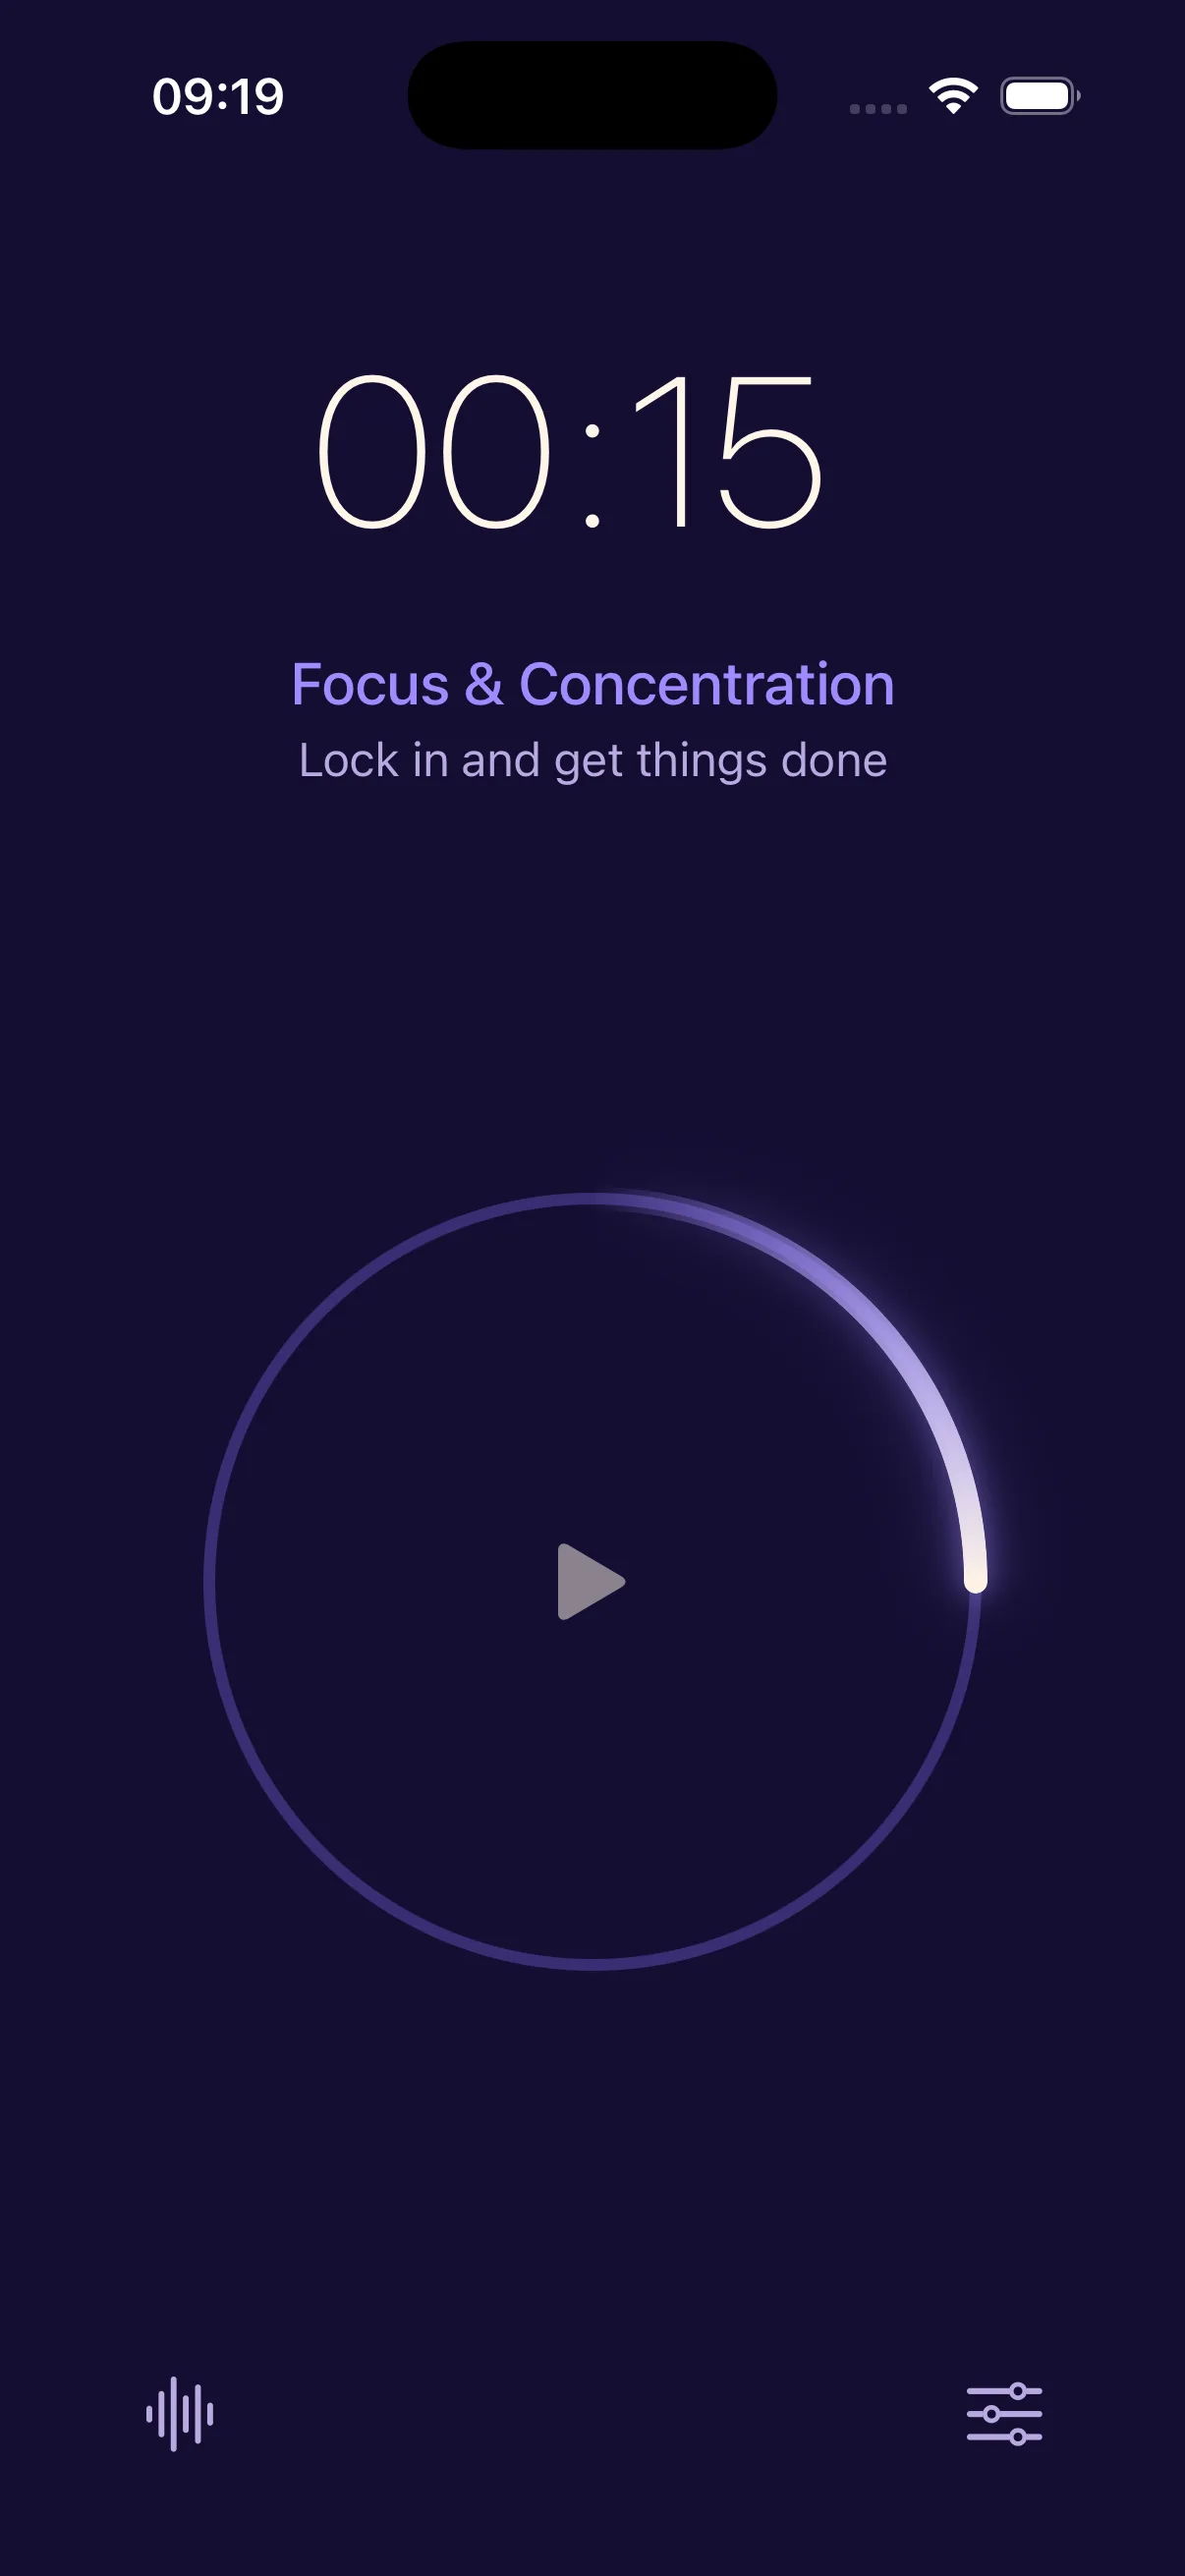
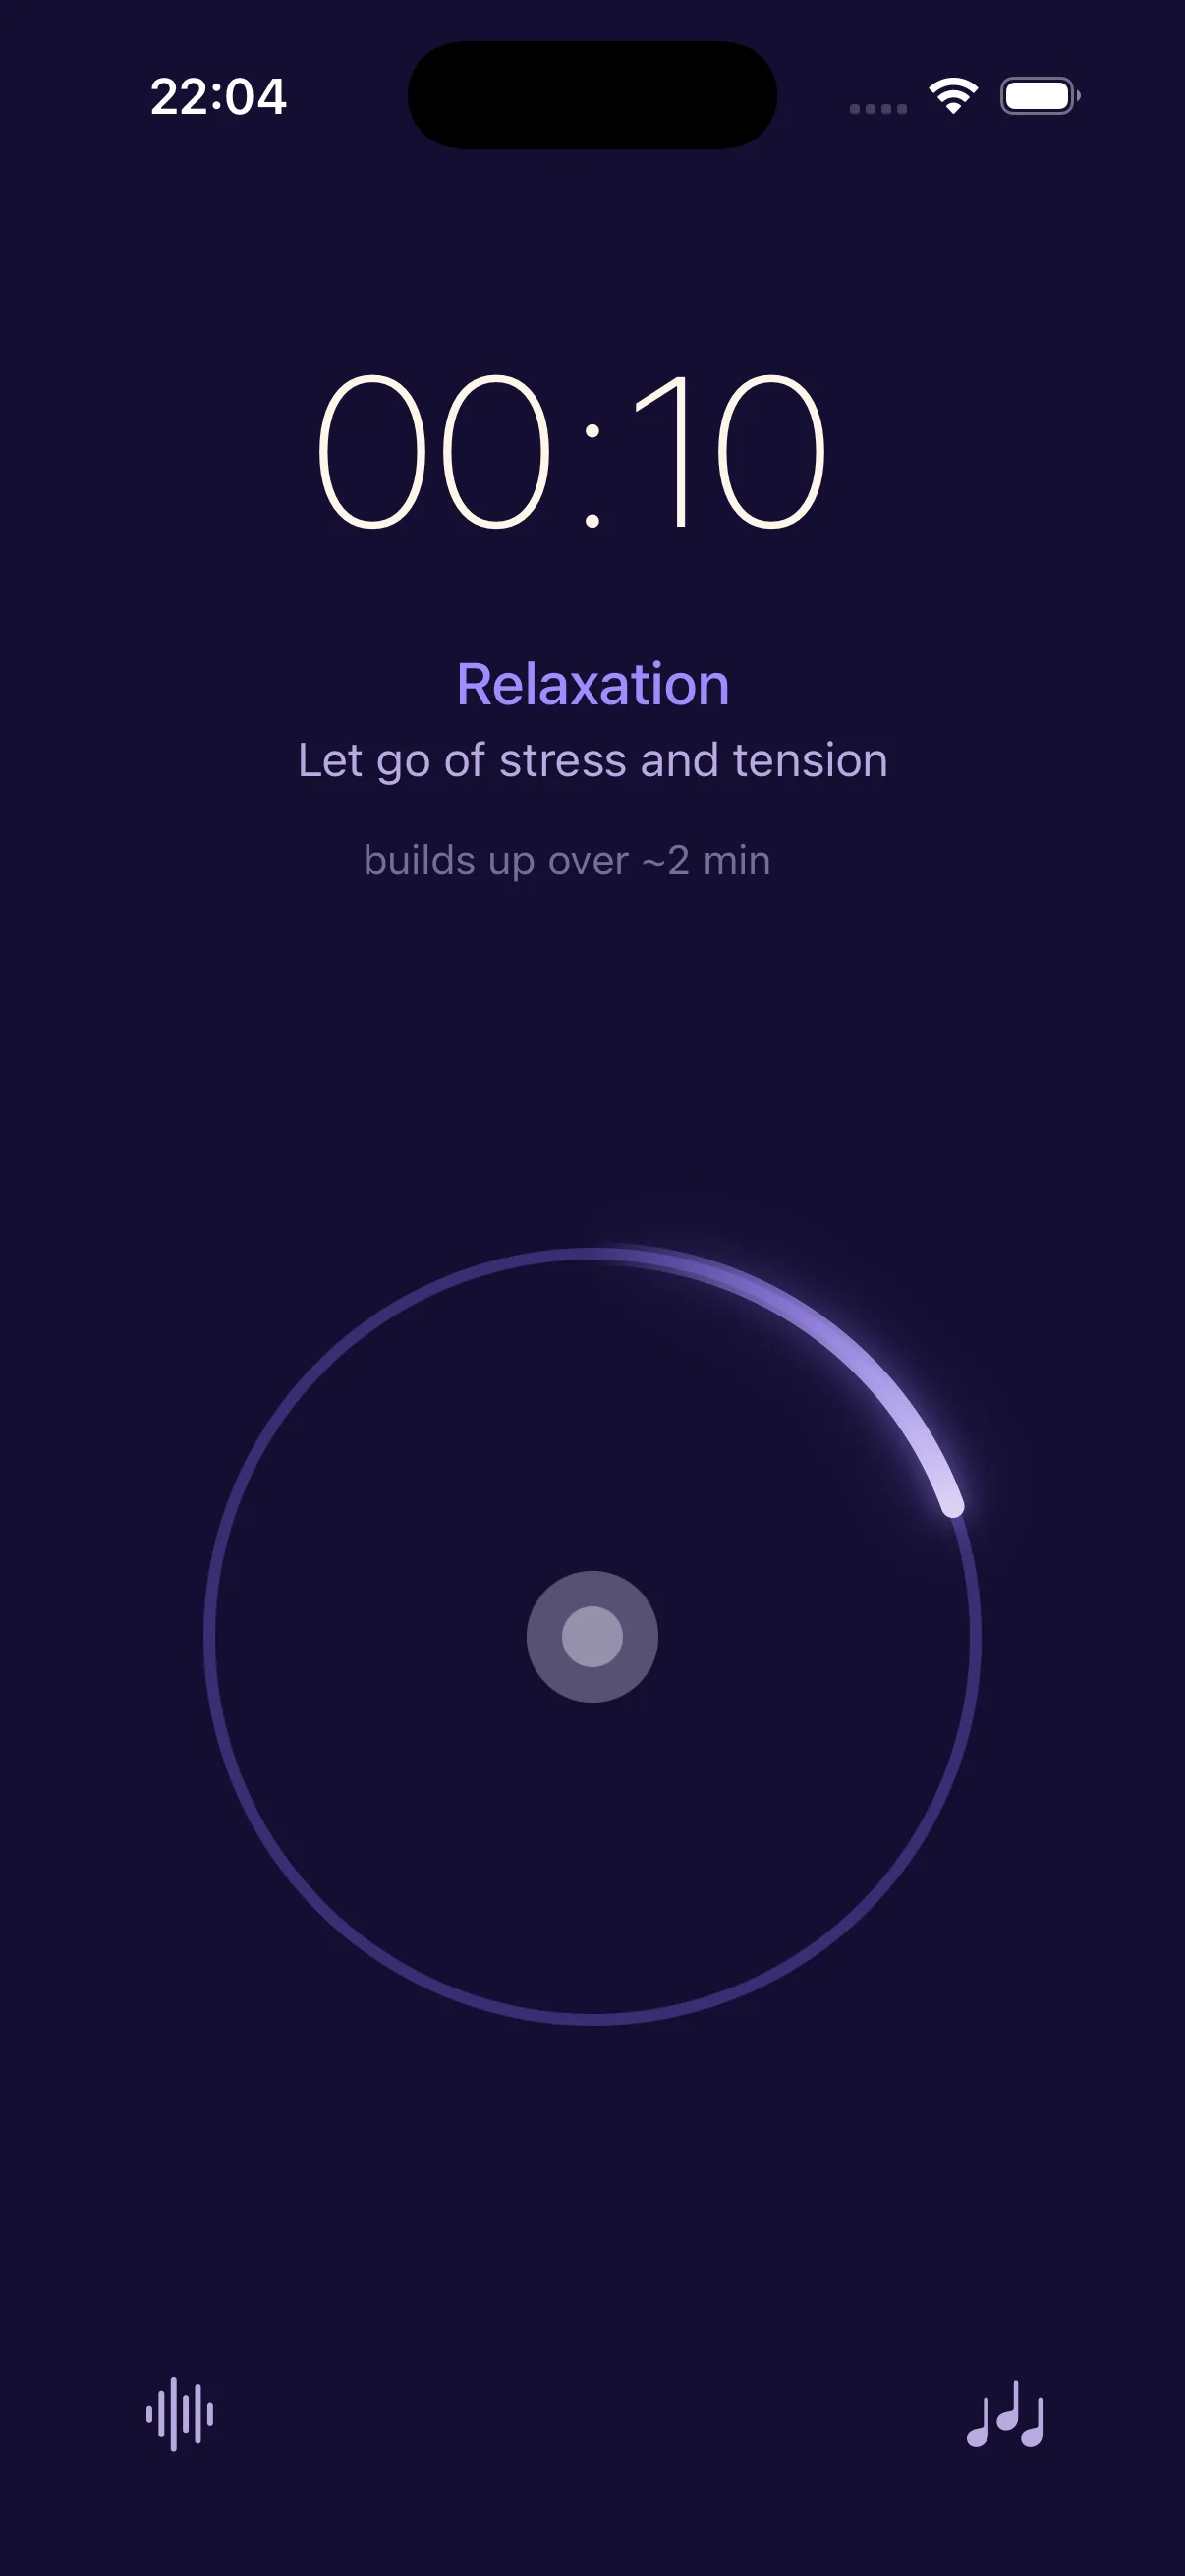
publish

diff --git a/credits/index.html b/credits/index.html
@@ -610,14 +610,14 @@
         <h1 class="font-display text-5xl font-extralight leading-[1.05] text-cream sm:text-[3.25rem]">The sound library.</h1>
 
         <div class="prose mt-7 max-w-2xl text-[17px] leading-relaxed text-muted">
-            <p>Humm's soundscapes are built from 380 recordings, sourced from <a href="https://freesound.org" class="text-violet-soft transition hover:text-violet-bright">Freesound.org</a> under Creative Commons licenses and cleared for a paid app. The 208 released under CC0 are public domain and need no credit. The 172 that carry a simple attribution requirement are credited below, each per its license.</p>
+            <p>Humm's soundscapes are built from 348 recordings, sourced from <a href="https://freesound.org" class="text-violet-soft transition hover:text-violet-bright">Freesound.org</a> under Creative Commons licenses and cleared for a paid app. The 193 released under CC0 are public domain and need no credit. The 155 that carry a simple attribution requirement are credited below, each per its license.</p>
         </div>
 
         
         <section class="mt-12">
             <div class="faq group border-y border-white/8">
                 <button type="button" aria-expanded="false" aria-controls="attributions-panel" class="flex w-full cursor-pointer items-center justify-between gap-4 py-6 text-left">
-                    <span class="flex items-baseline gap-3 font-display text-2xl font-extralight text-cream">Attributions <span class="text-base text-muted/70">172</span></span>
+                    <span class="flex items-baseline gap-3 font-display text-2xl font-extralight text-cream">Attributions <span class="text-base text-muted/70">155</span></span>
                     <span class="shrink-0 text-2xl font-light text-muted transition group-[.is-open]:rotate-45">+</span>
                 </button>
                 <div id="attributions-panel" class="faq-answer">
@@ -630,10 +630,6 @@
                                                             <li class="break-inside-avoid text-sm">
                                     <a href="https://freesound.org/people/Akkaittou/sounds/831757/" target="_blank" rel="noopener noreferrer" class="break-words text-cream/90 transition hover:text-violet-soft">SadAtmosphericGuitarSoundTrack</a>
                                     <span class="block text-xs text-muted">Akkaittou · CC BY 4.0</span>
-                                </li>
-                                                            <li class="break-inside-avoid text-sm">
-                                    <a href="https://freesound.org/people/AlienXXX/sounds/218276/" target="_blank" rel="noopener noreferrer" class="break-words text-cream/90 transition hover:text-violet-soft">underwater ambience.wav</a>
-                                    <span class="block text-xs text-muted">AlienXXX · CC BY 4.0</span>
                                 </li>
                                                             <li class="break-inside-avoid text-sm">
                                     <a href="https://freesound.org/people/Andrewkn/sounds/509740/" target="_blank" rel="noopener noreferrer" class="break-words text-cream/90 transition hover:text-violet-soft">Horizon</a>
@@ -701,10 +697,6 @@
                                 </li>
                                                             <li class="break-inside-avoid text-sm">
                                     <a href="https://freesound.org/people/Clearwavsound/sounds/541036/" target="_blank" rel="noopener noreferrer" class="break-words text-cream/90 transition hover:text-violet-soft">Singing Bowl Hit</a>
-                                    <span class="block text-xs text-muted">Clearwavsound · CC BY 3.0</span>
-                                </li>
-                                                            <li class="break-inside-avoid text-sm">
-                                    <a href="https://freesound.org/people/Clearwavsound/sounds/541032/" target="_blank" rel="noopener noreferrer" class="break-words text-cream/90 transition hover:text-violet-soft">Crystal Glass Clink</a>
                                     <span class="block text-xs text-muted">Clearwavsound · CC BY 3.0</span>
                                 </li>
                                                             <li class="break-inside-avoid text-sm">
@@ -784,10 +776,6 @@
                                     <span class="block text-xs text-muted">ethang · CC BY 4.0</span>
                                 </li>
                                                             <li class="break-inside-avoid text-sm">
-                                    <a href="https://freesound.org/people/Filmscore/sounds/516051/" target="_blank" rel="noopener noreferrer" class="break-words text-cream/90 transition hover:text-violet-soft">Sacred Bell at Byodo-In Temple 1</a>
-                                    <span class="block text-xs text-muted">Filmscore · CC BY 4.0</span>
-                                </li>
-                                                            <li class="break-inside-avoid text-sm">
                                     <a href="https://freesound.org/people/frankum/sounds/426471/" target="_blank" rel="noopener noreferrer" class="break-words text-cream/90 transition hover:text-violet-soft">pad chords 001-loop mode</a>
                                     <span class="block text-xs text-muted">frankum · CC BY 4.0</span>
                                 </li>
@@ -798,10 +786,6 @@
                                                             <li class="break-inside-avoid text-sm">
                                     <a href="https://freesound.org/people/Geoff-Bremner-Audio/sounds/732036/" target="_blank" rel="noopener noreferrer" class="break-words text-cream/90 transition hover:text-violet-soft">Dripping Water in Cave Sewer</a>
                                     <span class="block text-xs text-muted">Geoff-Bremner-Audio · CC BY 4.0</span>
-                                </li>
-                                                            <li class="break-inside-avoid text-sm">
-                                    <a href="https://freesound.org/people/gkillhour/sounds/267337/" target="_blank" rel="noopener noreferrer" class="break-words text-cream/90 transition hover:text-violet-soft">Ding 4.wav</a>
-                                    <span class="block text-xs text-muted">gkillhour · CC BY 4.0</span>
                                 </li>
                                                             <li class="break-inside-avoid text-sm">
                                     <a href="https://freesound.org/people/gkillhour/sounds/267332/" target="_blank" rel="noopener noreferrer" class="break-words text-cream/90 transition hover:text-violet-soft">Ding 1.wav</a>
@@ -844,14 +828,6 @@
                                     <span class="block text-xs text-muted">ispeakwaves · CC BY 4.0</span>
                                 </li>
                                                             <li class="break-inside-avoid text-sm">
-                                    <a href="https://freesound.org/people/Jagadamba/sounds/257198/" target="_blank" rel="noopener noreferrer" class="break-words text-cream/90 transition hover:text-violet-soft">Gong - percussion 03</a>
-                                    <span class="block text-xs text-muted">Jagadamba · CC BY 4.0</span>
-                                </li>
-                                                            <li class="break-inside-avoid text-sm">
-                                    <a href="https://freesound.org/people/jesabat/sounds/119741/" target="_blank" rel="noopener noreferrer" class="break-words text-cream/90 transition hover:text-violet-soft">Steam Hiss.wav</a>
-                                    <span class="block text-xs text-muted">jesabat · CC BY 3.0</span>
-                                </li>
-                                                            <li class="break-inside-avoid text-sm">
                                     <a href="https://freesound.org/people/joedeshon/sounds/78209/" target="_blank" rel="noopener noreferrer" class="break-words text-cream/90 transition hover:text-violet-soft">mark_tree_low_up.wav</a>
                                     <span class="block text-xs text-muted">joedeshon · CC BY 4.0</span>
                                 </li>
@@ -866,10 +842,6 @@
                                                             <li class="break-inside-avoid text-sm">
                                     <a href="https://freesound.org/people/Julian_Eftei/sounds/553366/" target="_blank" rel="noopener noreferrer" class="break-words text-cream/90 transition hover:text-violet-soft">Snake.wav</a>
                                     <span class="block text-xs text-muted">Julian_Eftei · CC BY 4.0</span>
-                                </li>
-                                                            <li class="break-inside-avoid text-sm">
-                                    <a href="https://freesound.org/people/juskiddink/sounds/129219/" target="_blank" rel="noopener noreferrer" class="break-words text-cream/90 transition hover:text-violet-soft">Quartz crystal singing bowl.wav</a>
-                                    <span class="block text-xs text-muted">juskiddink · CC BY 4.0</span>
                                 </li>
                                                             <li class="break-inside-avoid text-sm">
                                     <a href="https://freesound.org/people/juskiddink/sounds/183454/" target="_blank" rel="noopener noreferrer" class="break-words text-cream/90 transition hover:text-violet-soft">Duduk 2.wav</a>
@@ -890,18 +862,6 @@
                                                             <li class="break-inside-avoid text-sm">
                                     <a href="https://freesound.org/people/juskiddink/sounds/68261/" target="_blank" rel="noopener noreferrer" class="break-words text-cream/90 transition hover:text-violet-soft">bell4.wav</a>
                                     <span class="block text-xs text-muted">juskiddink · CC BY 4.0</span>
-                                </li>
-                                                            <li class="break-inside-avoid text-sm">
-                                    <a href="https://freesound.org/people/juskiddink/sounds/57625/" target="_blank" rel="noopener noreferrer" class="break-words text-cream/90 transition hover:text-violet-soft">Metallic gong.wav</a>
-                                    <span class="block text-xs text-muted">juskiddink · CC BY 4.0</span>
-                                </li>
-                                                            <li class="break-inside-avoid text-sm">
-                                    <a href="https://freesound.org/people/juskiddink/sounds/59536/" target="_blank" rel="noopener noreferrer" class="break-words text-cream/90 transition hover:text-violet-soft">bell3.wav</a>
-                                    <span class="block text-xs text-muted">juskiddink · CC BY 4.0</span>
-                                </li>
-                                                            <li class="break-inside-avoid text-sm">
-                                    <a href="https://freesound.org/people/kangaroovindaloo/sounds/138289/" target="_blank" rel="noopener noreferrer" class="break-words text-cream/90 transition hover:text-violet-soft">Freshwater pond submerged</a>
-                                    <span class="block text-xs text-muted">kangaroovindaloo · CC BY 4.0</span>
                                 </li>
                                                             <li class="break-inside-avoid text-sm">
                                     <a href="https://freesound.org/people/kerri/sounds/27257/" target="_blank" rel="noopener noreferrer" class="break-words text-cream/90 transition hover:text-violet-soft">eagle_feather.mp3</a>
@@ -1012,10 +972,6 @@
                                     <span class="block text-xs text-muted">MatthiasFlowers · CC BY 4.0</span>
                                 </li>
                                                             <li class="break-inside-avoid text-sm">
-                                    <a href="https://freesound.org/people/MattRuthSound/sounds/561913/" target="_blank" rel="noopener noreferrer" class="break-words text-cream/90 transition hover:text-violet-soft">Match box manipulation, shake, rattle, match stick, sticks, wood, wooden, single tap_96Khz_Mono_ZoomH4n_NT5-002.wav</a>
-                                    <span class="block text-xs text-muted">MattRuthSound · CC BY 4.0</span>
-                                </li>
-                                                            <li class="break-inside-avoid text-sm">
                                     <a href="https://freesound.org/people/matucha/sounds/170247/" target="_blank" rel="noopener noreferrer" class="break-words text-cream/90 transition hover:text-violet-soft">campfire_01.wav</a>
                                     <span class="block text-xs text-muted">matucha · CC BY 4.0</span>
                                 </li>
@@ -1084,16 +1040,8 @@
                                     <span class="block text-xs text-muted">NoahBangs · CC BY 4.0</span>
                                 </li>
                                                             <li class="break-inside-avoid text-sm">
-                                    <a href="https://freesound.org/people/passAirmangrace/sounds/340895/" target="_blank" rel="noopener noreferrer" class="break-words text-cream/90 transition hover:text-violet-soft">SprayPaint_Shake_Single_bip.wav</a>
-                                    <span class="block text-xs text-muted">passAirmangrace · CC BY 3.0</span>
-                                </li>
-                                                            <li class="break-inside-avoid text-sm">
                                     <a href="https://freesound.org/people/PatrickLieberkind/sounds/396457/" target="_blank" rel="noopener noreferrer" class="break-words text-cream/90 transition hover:text-violet-soft">Dark Ambient Drone</a>
                                     <span class="block text-xs text-muted">PatrickLieberkind · CC BY 4.0</span>
-                                </li>
-                                                            <li class="break-inside-avoid text-sm">
-                                    <a href="https://freesound.org/people/phantastonia/sounds/270604/" target="_blank" rel="noopener noreferrer" class="break-words text-cream/90 transition hover:text-violet-soft">bells.WAV</a>
-                                    <span class="block text-xs text-muted">phantastonia · CC BY 4.0</span>
                                 </li>
                                                             <li class="break-inside-avoid text-sm">
                                     <a href="https://freesound.org/people/pjcohen/sounds/413612/" target="_blank" rel="noopener noreferrer" class="break-words text-cream/90 transition hover:text-violet-soft">Orchestral_Concert_TamTam_Gong_14.wav</a>
@@ -1130,18 +1078,6 @@
                                                             <li class="break-inside-avoid text-sm">
                                     <a href="https://freesound.org/people/richcraftstudios/sounds/454609/" target="_blank" rel="noopener noreferrer" class="break-words text-cream/90 transition hover:text-violet-soft">Richcraft - chime D 20181219.wav</a>
                                     <span class="block text-xs text-muted">richcraftstudios · CC BY 4.0</span>
-                                </li>
-                                                            <li class="break-inside-avoid text-sm">
-                                    <a href="https://freesound.org/people/Riley_Garinger/sounds/720865/" target="_blank" rel="noopener noreferrer" class="break-words text-cream/90 transition hover:text-violet-soft">OBJWhled-Caster Wheel, Spin, SIngle_04</a>
-                                    <span class="block text-xs text-muted">Riley_Garinger · CC BY 4.0</span>
-                                </li>
-                                                            <li class="break-inside-avoid text-sm">
-                                    <a href="https://freesound.org/people/Riley_Garinger/sounds/720863/" target="_blank" rel="noopener noreferrer" class="break-words text-cream/90 transition hover:text-violet-soft">OBJWhled-Caster Wheel, Spin, SIngle_03</a>
-                                    <span class="block text-xs text-muted">Riley_Garinger · CC BY 4.0</span>
-                                </li>
-                                                            <li class="break-inside-avoid text-sm">
-                                    <a href="https://freesound.org/people/Riley_Garinger/sounds/720862/" target="_blank" rel="noopener noreferrer" class="break-words text-cream/90 transition hover:text-violet-soft">OBJWhled-Caster Wheel, Spin, SIngle_02</a>
-                                    <span class="block text-xs text-muted">Riley_Garinger · CC BY 4.0</span>
                                 </li>
                                                             <li class="break-inside-avoid text-sm">
                                     <a href="https://freesound.org/people/Sabacky/sounds/767812/" target="_blank" rel="noopener noreferrer" class="break-words text-cream/90 transition hover:text-violet-soft">Various Bamboo Chimes</a>
@@ -1188,15 +1124,15 @@
                                     <span class="block text-xs text-muted">Santi_SF · CC BY 4.0</span>
                                 </li>
                                                             <li class="break-inside-avoid text-sm">
-                                    <a href="https://freesound.org/people/sgossner/sounds/192642/" target="_blank" rel="noopener noreferrer" class="break-words text-cream/90 transition hover:text-violet-soft">chimes_g3_pp_1.wav</a>
-                                    <span class="block text-xs text-muted">sgossner · CC BY 4.0</span>
-                                </li>
-                                                            <li class="break-inside-avoid text-sm">
                                     <a href="https://freesound.org/people/sgossner/sounds/192634/" target="_blank" rel="noopener noreferrer" class="break-words text-cream/90 transition hover:text-violet-soft">chimes_c3_pp_1.wav</a>
                                     <span class="block text-xs text-muted">sgossner · CC BY 4.0</span>
                                 </li>
                                                             <li class="break-inside-avoid text-sm">
                                     <a href="https://freesound.org/people/sgossner/sounds/192643/" target="_blank" rel="noopener noreferrer" class="break-words text-cream/90 transition hover:text-violet-soft">chimes_f3_p_1.wav</a>
+                                    <span class="block text-xs text-muted">sgossner · CC BY 4.0</span>
+                                </li>
+                                                            <li class="break-inside-avoid text-sm">
+                                    <a href="https://freesound.org/people/sgossner/sounds/192642/" target="_blank" rel="noopener noreferrer" class="break-words text-cream/90 transition hover:text-violet-soft">chimes_g3_pp_1.wav</a>
                                     <span class="block text-xs text-muted">sgossner · CC BY 4.0</span>
                                 </li>
                                                             <li class="break-inside-avoid text-sm">
@@ -1300,10 +1236,6 @@
                                     <span class="block text-xs text-muted">Patrick6410 · Sampling Plus 1.0</span>
                                 </li>
                                                             <li class="break-inside-avoid text-sm">
-                                    <a href="https://freesound.org/people/pearldivers/sounds/90657/" target="_blank" rel="noopener noreferrer" class="break-words text-cream/90 transition hover:text-violet-soft">Pizza Cutter Cymbal.wav</a>
-                                    <span class="block text-xs text-muted">pearldivers · Sampling Plus 1.0</span>
-                                </li>
-                                                            <li class="break-inside-avoid text-sm">
                                     <a href="https://freesound.org/people/samsmyname/sounds/51364/" target="_blank" rel="noopener noreferrer" class="break-words text-cream/90 transition hover:text-violet-soft">FIRE.wav</a>
                                     <span class="block text-xs text-muted">samsmyname · Sampling Plus 1.0</span>
                                 </li>
@@ -1315,18 +1247,18 @@
                     </div>
                 </div>
             </div>
-            <p class="mt-6 text-sm text-muted">The other 208 recordings are released under CC0 1.0 (public domain) and ask for no attribution. We thank the contributors nonetheless.</p>
+            <p class="mt-6 text-sm text-muted">The other 193 recordings are released under CC0 1.0 (public domain) and ask for no attribution. We thank the contributors nonetheless.</p>
         </section>
 
         
         <section class="mt-16 border-t border-white/8 pt-8">
             <h2 class="text-sm uppercase tracking-[0.2em] text-muted/70">Technical notes</h2>
             <div class="prose mt-4 max-w-2xl text-sm leading-relaxed text-muted/70">
-                <p>380 samples across three layers (continuous ambient beds, medium textures, and short accents), roughly 110 MB, bundled entirely in the app: nothing streamed, fully offline.</p>
-                <p>Shipped as Opus in an Ogg container at 48 kHz, with bitrate tiered by material: ambient beds at 80 kbps, tonal textures and accents at 96 kbps. Channels are preserved per source (mostly stereo, some mono point-sources). Decoded natively by the OS on iOS 17+ and Android 5.0+.</p>
-                <p>Most are sourced from lossless masters (WAV, FLAC, or AIFF, up to 24-bit / 96 kHz); a small number were only ever published lossy and are the best available. The set compresses from about 2.5 GB of originals down to roughly 110 MB, with no audible loss on this material.</p>
-                <p>Every sample is silence-trimmed and loudness-normalized: continuous layers to -16 LUFS (EBU R128), short accents true-peak normalized, everything true-peak limited to between -1 and -1.5 dBTP. So nothing clips and the generative mix always sits at a consistent level.</p>
-                <p>Licensing is Creative Commons throughout: 208 samples are CC0 (public domain, no attribution), 161 CC BY, and 11 Sampling Plus, with attribution tracked per file. All royalty-free and cleared for commercial use.</p>
+                <p>348 samples across four layers (continuous ambient beds, enriching textures, foreground melodies, and short accents), roughly 240 MB, bundled entirely in the app: nothing streamed, fully offline.</p>
+                <p>Shipped as Opus in an Ogg container at 48 kHz, with bitrate tiered by material: ambient beds at 80 kbps, tonal textures, melodies and accents at 96 kbps. Channels are preserved per source (mostly stereo, some mono point-sources). Decoded natively by the OS on iOS 17+ and Android 5.0+.</p>
+                <p>Most are sourced from lossless masters (WAV, FLAC, or AIFF, up to 24-bit / 96 kHz); a small number were only ever published lossy and are the best available. The set compresses from about 5 GB of originals down to roughly 240 MB, with no audible loss on this material.</p>
+                <p>Every sample is silence-trimmed and loudness-normalized asymmetrically: -16 LUFS (EBU R128) acts as a ceiling — louder sources are brought down to it, while naturally quiet recordings keep their softness instead of being amplified into noise. Sounds of the same concept are additionally matched within a few dB of each other, so rotating between variants never jumps in level. Short accents are true-peak normalized, and everything is true-peak limited to between -1 and -1.5 dBTP: nothing clips, and the generative mix stays balanced.</p>
+                <p>Licensing is Creative Commons throughout: 193 samples are CC0 (public domain, no attribution), 145 CC BY, and 10 Sampling Plus, with attribution tracked per file. All royalty-free and cleared for commercial use.</p>
             </div>
         </section>
     </article>